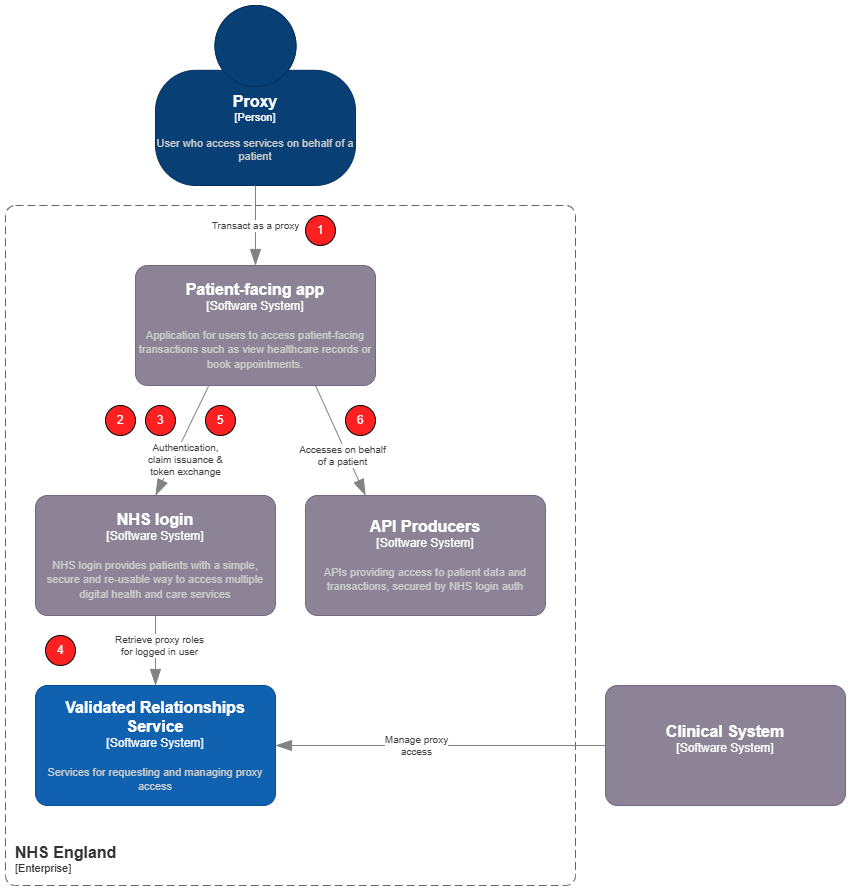
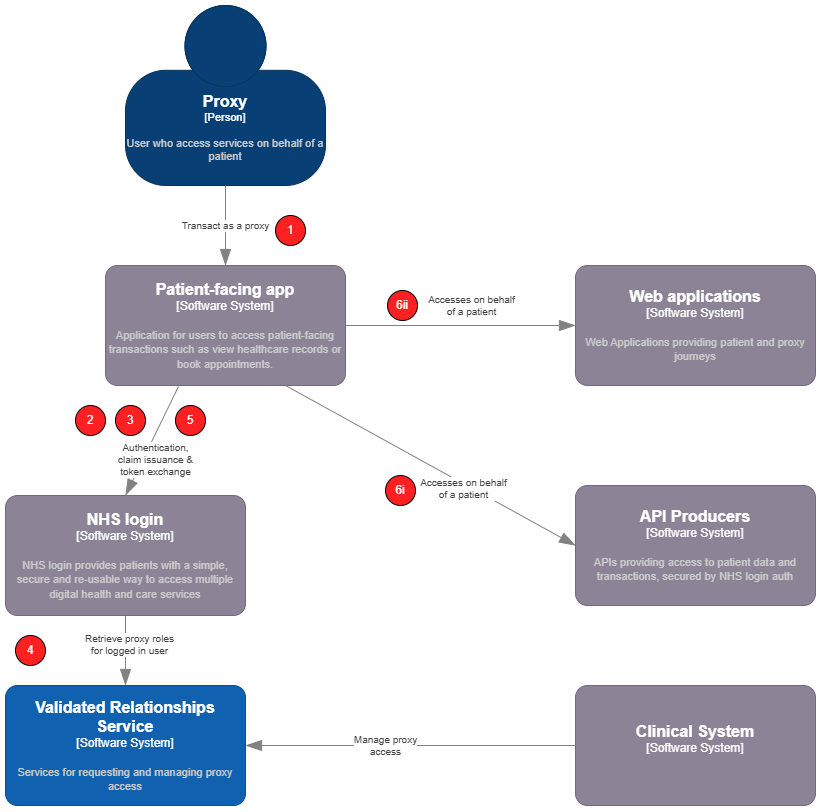
added pfs implementation guidance

diff --git a/src/patient-facing-journeys/enable-proxy-access-to-services.md b/src/patient-facing-journeys/enable-proxy-access-to-services.md
@@ -22,14 +22,15 @@ By federating identity and delegation through NHS login, services can rely on a 
 
 This approach avoids the need for individual services to implement their own proxy role management and identity verification.
 
-## Related documentation
+## Fundamental steps of a proxy user journey
 
-This documentation is meant to act as a guide for how to implement the proxy access workflow into your application. For concrete integration guidance and specifications for the requisite APIs and onboarding processes, you can refer to the following:
+When delivering a user journey to enable a proxy to manage services on behalf of a patient, the high-level steps are:
 
-- [NHS login developer documentation](https://nhsconnect.github.io/nhslogin/)
-- [User-restricted RESTful APIs - NHS login separate authentication and authorisation](https://digital.nhs.uk/developer/guides-and-documentation/security-and-authorisation/user-restricted-restful-apis-nhs-login-separate-authentication-and-authorisation)
+{{ imagePopOut('/assets/images/basic_user_flow.png' | url, 'Proxy user journey') }}
 
-## High-level steps
+Steps 1-3 will be consistent for all proxy journeys. Step 4 may vary depending on the nature of the transaction that the user wishes to complete.
+
+### Logical Architecture & sequence
 
 {{ imagePopOut('/assets/images/federated_access_generic.png' | url, 'Federated access steps') }}
 
@@ -41,28 +42,34 @@ This documentation is meant to act as a guide for how to implement the proxy acc
 
 4. When NHS login retrieves proxy roles, it uses the `GET /Consent` endpoint.
 
-5. The user selects who they would like to "switch to" in the app. The PFS must then perform a token exchange with NHS login. NHS login will issue a composite identity token detailing the `sub`ject and the `act`or, the patient and proxy respectively. This token can then be exchanged for an access token.
+5. The user selects who they would like to "switch to" in the app. The PFS must then perform a token exchange with NHS login. NHS login will issue a composite identity token detailing the `sub`ject and the `act`or, the patient and proxy respectively. This token can then be exchanged for an access token as needed.
 
-6. The user performs a transaction on behalf of the patient they are proxying for, with the PFS passing the delegated access token in the request in the `Authorization` header (bearer token). The API will verify the token process the request n te context of the subject in the token, auditing the the request appropriately.
+6. The user performs a transaction on behalf of the patient they are proxying for. **(i) API Variant:** the PFS performs a [token exchange](https://digital.nhs.uk/developer/guides-and-documentation/security-and-authorisation/user-restricted-restful-apis-nhs-login-separate-authentication-and-authorisation) by calling `/oauth2/token` on the Authorization server to exchange the composite identity token for an access token. The access token is then used in requests to an API in the `Authorization` header (bearer token). The API will verify the token and process the request in the context of the subject in the token, auditing the request appropriately i.e. that the user has performed an action on behalf of the patient. **(ii) Web application Variant:** the user is redirected to an external web application or "web jump off", remaining logged in as a result of an SSO handshake. In doing so the PFS passes the composite identity token in the initial request to the external web application. This is then verified with NHS login through the standard SSO process as described by the [NHS login documentation](https://nhsconnect.github.io/nhslogin/single-sign-on/). The external web application can then provide a logged in experience for the user and use the claims in the token (e.g. NHS number of proxy or patient and demographics of each) as needed.
 
-## Detailed steps
+## Detailed sequence diagrams
 
-The below sequence diagram illustrates how the various components interact in order for a proxy user to complete a task involving an external API on behalf of a patient. The flow follows the standard auth flow described in [User-restricted RESTful APIs - NHS login separate authentication and authorisation](https://digital.nhs.uk/developer/guides-and-documentation/security-and-authorisation/user-restricted-restful-apis-nhs-login-separate-authentication-and-authorisation). Where there is variation from the standard process, these steps are highlighted in green.
+Given the two fundamental variants of delivering a proxy user journey (API & Web "jump off"), the below captures the steps involved for each.
+
+<div class="nhsuk-inset-text">
+  <p>Where there is variation from the standard process of integrating with NHS login or an API for the logged in user, these steps are highlighted in green.</p>
+</div>
+
+### 1. Common steps
+
+These initial steps are common to both variants of delivering a proxy user journey.
 
 ```mermaid
 sequenceDiagram
   autonumber
   actor U as User/Proxy
   participant App as Patient-facing app
-  participant AS as Authorisation server
   participant Login as NHS login
   participant VRS as Validated Relationships <br /> Service (VRS)
-  participant API as User-restricted API
 
   U->>App: Launch application
   rect rgba(0, 150, 100, .3)
       App-->>U: Redirect to authentication (App must request delegation scope in required claims)
-      U->>Login: Redirect to authentication (delegation claim requested)
+      U->>Login: Redirect to authentication (delegation scope requested)
   end
   Login-->>U: Display sign-in page
   U->>Login: Sign in
@@ -78,17 +85,78 @@ sequenceDiagram
       Login-->>App: Return user info (with delegations - one per proxy role)
       App -->>U: Display list of patients (the delegation claims)
       U->>App: Select a patient
-      App->>Login: Perform token exchange (/oauth2/token get composite token)
-      Login-->App: Return composite token (sub: patent, act: proxy user)
+      App->>Login: Perform token exchange (using /oauth2/token) to get composite token <br /> incl. NHS number of the patient and logged-in users identity token
+      Login-->>App: Return composite token (sub: patent, act: proxy user's base64 encoded identity token)
       App-->>U: Display available proxy journeys
   end
-  U->>App: do something that requires access to an API
-  App->>AS: Exchange composite identity token for an access token (/oauth2/token)
+  note over U,App: Steps for web jump off or API integration follow, depending on the transaction
+```
+
+#### 2.1 Web app jump off steps
+
+The steps described below follow those captured in (1) above when transitioning from one web application to another via SSO.
+
+```mermaid
+sequenceDiagram
+  autonumber
+  actor U as User/Proxy
+  participant App as Patient-facing app
+  participant Login as NHS login
+  participant App2 as External Web App
+
+  note over U,App: Preceded by common steps
+  U->>App: do something that requires navigation to another web application
+  rect rgba(0, 150, 100, .3)
+    note over App: Using values from the composite identity token <br/>and not the logged-in users identity token
+    App->>App: generate signed jwt to support SSO flow
+  end
+  note over U,App: These are the standard SSO steps as described in NHS login documentation
+  App-->>U: redirect to the external web application URL <br/> appending `asserted_login_identity=<jwt>` query string on the URL
+  U->>App2: redirect to external web application
+  App2->>Login: oidc request + asserted_login_identity
+  Login->>Login: Verify the request
+  Login-->>App2: Redirect with authorisation code
+  App2->>Login: Exchange code (/oauth2/token)
+  Login-->>App2: Return access token + ID token
+  rect rgba(0, 150, 100, .3)
+    note over U,App: External web application has claims relating <br /> to both proxy and patient available in the the token
+    App2-->>U: Present logged-in experience to user acting as a proxy
+  end
+```
+
+### 2.2 External API steps
+
+The steps described below follow those captured in (1) above. In order to deliver a proxy journey whereby your patient-facing application uses external APIs to read or write data pertaining to a patient but carried out by a proxy, you can follow the steps outline below.
+
+The below sequence diagram illustrates how the various components interact in order for a proxy user to complete a task involving an external API on behalf of a patient. The flow follows the standard auth flow described in [User-restricted RESTful APIs - NHS login separate authentication and authorisation](https://digital.nhs.uk/developer/guides-and-documentation/security-and-authorisation/user-restricted-restful-apis-nhs-login-separate-authentication-and-authorisation).
+
+```mermaid
+sequenceDiagram
+  autonumber
+  actor U as User/Proxy
+  participant App as Patient-facing app
+  participant AS as Authorisation server
+  participant API as User-restricted API
+
+  note over U,App: Preceded by common steps
+
+  U->>App: do something that requires access to an API on behalf of a patient
+  rect rgba(0, 150, 100, .3)
+    note over AS: This is an exchange of the composite identity token <br/>and not the logged-in users identity token <br/>for normal flows for "self access"
+    App->>AS: Exchange composite identity token for an access token using Authorization server (/oauth2/token)
+  end
   AS-->>App: Return access token
-  App->>API: Call user-restricted API (with access token)
+  App->>API: Call user-restricted API <br/> (with access token in header `Authorization: bearer <access_token>`)
   rect rgba(0, 150, 100, .3)
       API->>API: Audit proxy performing the transaction
       API-->>App: Return response
       App-->>U: Display patient related data to the proxy user
   end
 ```
+
+## Related documentation
+
+This documentation is meant to act as a guide for how to implement the proxy access workflow into your application. For concrete integration guidance and specifications for the requisite APIs and onboarding processes, you can refer to the following:
+
+- [NHS login developer documentation](https://nhsconnect.github.io/nhslogin/)
+- [User-restricted RESTful APIs - NHS login separate authentication and authorisation](https://digital.nhs.uk/developer/guides-and-documentation/security-and-authorisation/user-restricted-restful-apis-nhs-login-separate-authentication-and-authorisation)

diff --git a/src/getting-started/glossary-of-terms.md b/src/getting-started/glossary-of-terms.md
@@ -19,3 +19,4 @@ The below table covers terms you may encounter in the context of the National Pr
 | API                   | Application Programming Interface; allows systems to communicate.                                                                                                                                                                                                                                                                             | Endpoint, REST                                          |
 | REST                  | REpresentational State Transfer; An architectural style for building web APIs that use stateless communication and standard HTTP methods to access and manipulate resources.                                                                                                                                                                  | RESTful                                                 |
 | DOS                   | Digital Onboarding Service. Process used to onboard new suppliers and services onto the National Proxy Service Capabilities. Each individual service has its own DOS process, including the Validated Relationships Service                                                                                                                   | Assurance                                               |
+| SSO                   | Single Sign On. A mechanism that allows a user to seamlessly access multiple services using one authenticated session. With NHS login this is achieved via token-based exchange between applications (relying parties) without requiring the user to log in again.                                                                            |                                                         |

diff --git a/src/patient-facing-journeys/nhs-app-guidance.md b/src/patient-facing-journeys/nhs-app-guidance.md
@@ -3,7 +3,10 @@ layout: default
 title: NHS app guidance
 ---
 
-Underlying capability overview TODO
+Teams wishing to implement a proxy journey in the NHS app can benefit from the fact that most of the underlying capability has ben delivered already. The app will deal with
+
+1. Presenting a list of patients the logged in user can mange services for (via NHS login) - "Manage services for others screen"
+1. Generation of access tokens through the auth package
 
 ## Web integrations
 
@@ -12,9 +15,11 @@ The process of navigating to a third-party web application and retaining logged-
 1. User logs (NHS app obtains an identity token for the logged in user)
 1. User switches to manage services for a patient
 1. **(NEW)** NHS app must exchange the user's token for a composite token for the patient they wish to manage services for (see [NHS login documentation](https://nhsconnect.github.io/nhslogin/))
-1. NHS app passes the composite token in the URL as part of the jump off
+1. NHS app passes a JWT generated from the composite token in the URL (`asserted_login_identity`) as part of the jump off
 1. Third party web app completes verification of the token passed in the query string to it
 1. **(Slight Variant)** Third party may use details in the token such as the subject's NHS number of demographics, noting that in the case of proxy, the token subject and demographics will be those of the patient and not the logged-in user (see [NHS login documentation](https://nhsconnect.github.io/nhslogin/) for token specification)
+
+For more detailed interaction details see how to [enable proxy access to services]({{ '/patient-facing-journeys/enable-proxy-access-to-services' }})
 
 ## API integrations
 

diff --git a/README.md b/README.md
@@ -212,6 +212,23 @@ To add an image to the page in a standardised way with a popout into a separate 
 {{ imagePopOut('/assets/images/diagram2.png' | url, 'Second diagram') }}
 ```
 
+### Adding sequence diagrams
+
+Mermaid sequence diagrams are supported out-the-box. You just need to wrap them in appropriate pre tags as per below
+
+
+\```mermaid
+
+// Your diagram content here
+
+\```
+
+
+Diagrams are pan-able (js for this in `/src/assets/scripts`).
+
+**Re-building diagrams:** Diagrams are generated at build time. Therefore, any changes to the diagram code will require a build (`npm run build`) before it will render. An update to the diagram code will result in it reverting to plain text until that build has been executed.
+
+
 ---
 
 For more details, see the [Eleventy documentation](https://www.11ty.dev/docs/).

diff --git a/src/patient-facing-journeys/api-producer-guidance.md b/src/patient-facing-journeys/api-producer-guidance.md
@@ -17,7 +17,7 @@ In addition to any standard security, service-specific, clinical or information 
 
 ## How to enable proxy access
 
-The API Management platform supports the enablement of delegated access. It is an "Opt in" feature and must be explicitly enabled on your API proxy. To do so, [contact the NHS England API platform team](https://digital.nhs.uk/services/api-platform#contact-us).
+The NHSE API Management platform supports the enablement of delegated access. It is an "Opt in" feature and must be explicitly enabled on your API proxy. To do so, [contact the NHS England API platform team](https://digital.nhs.uk/services/api-platform#contact-us).
 
 ## Governance
 
